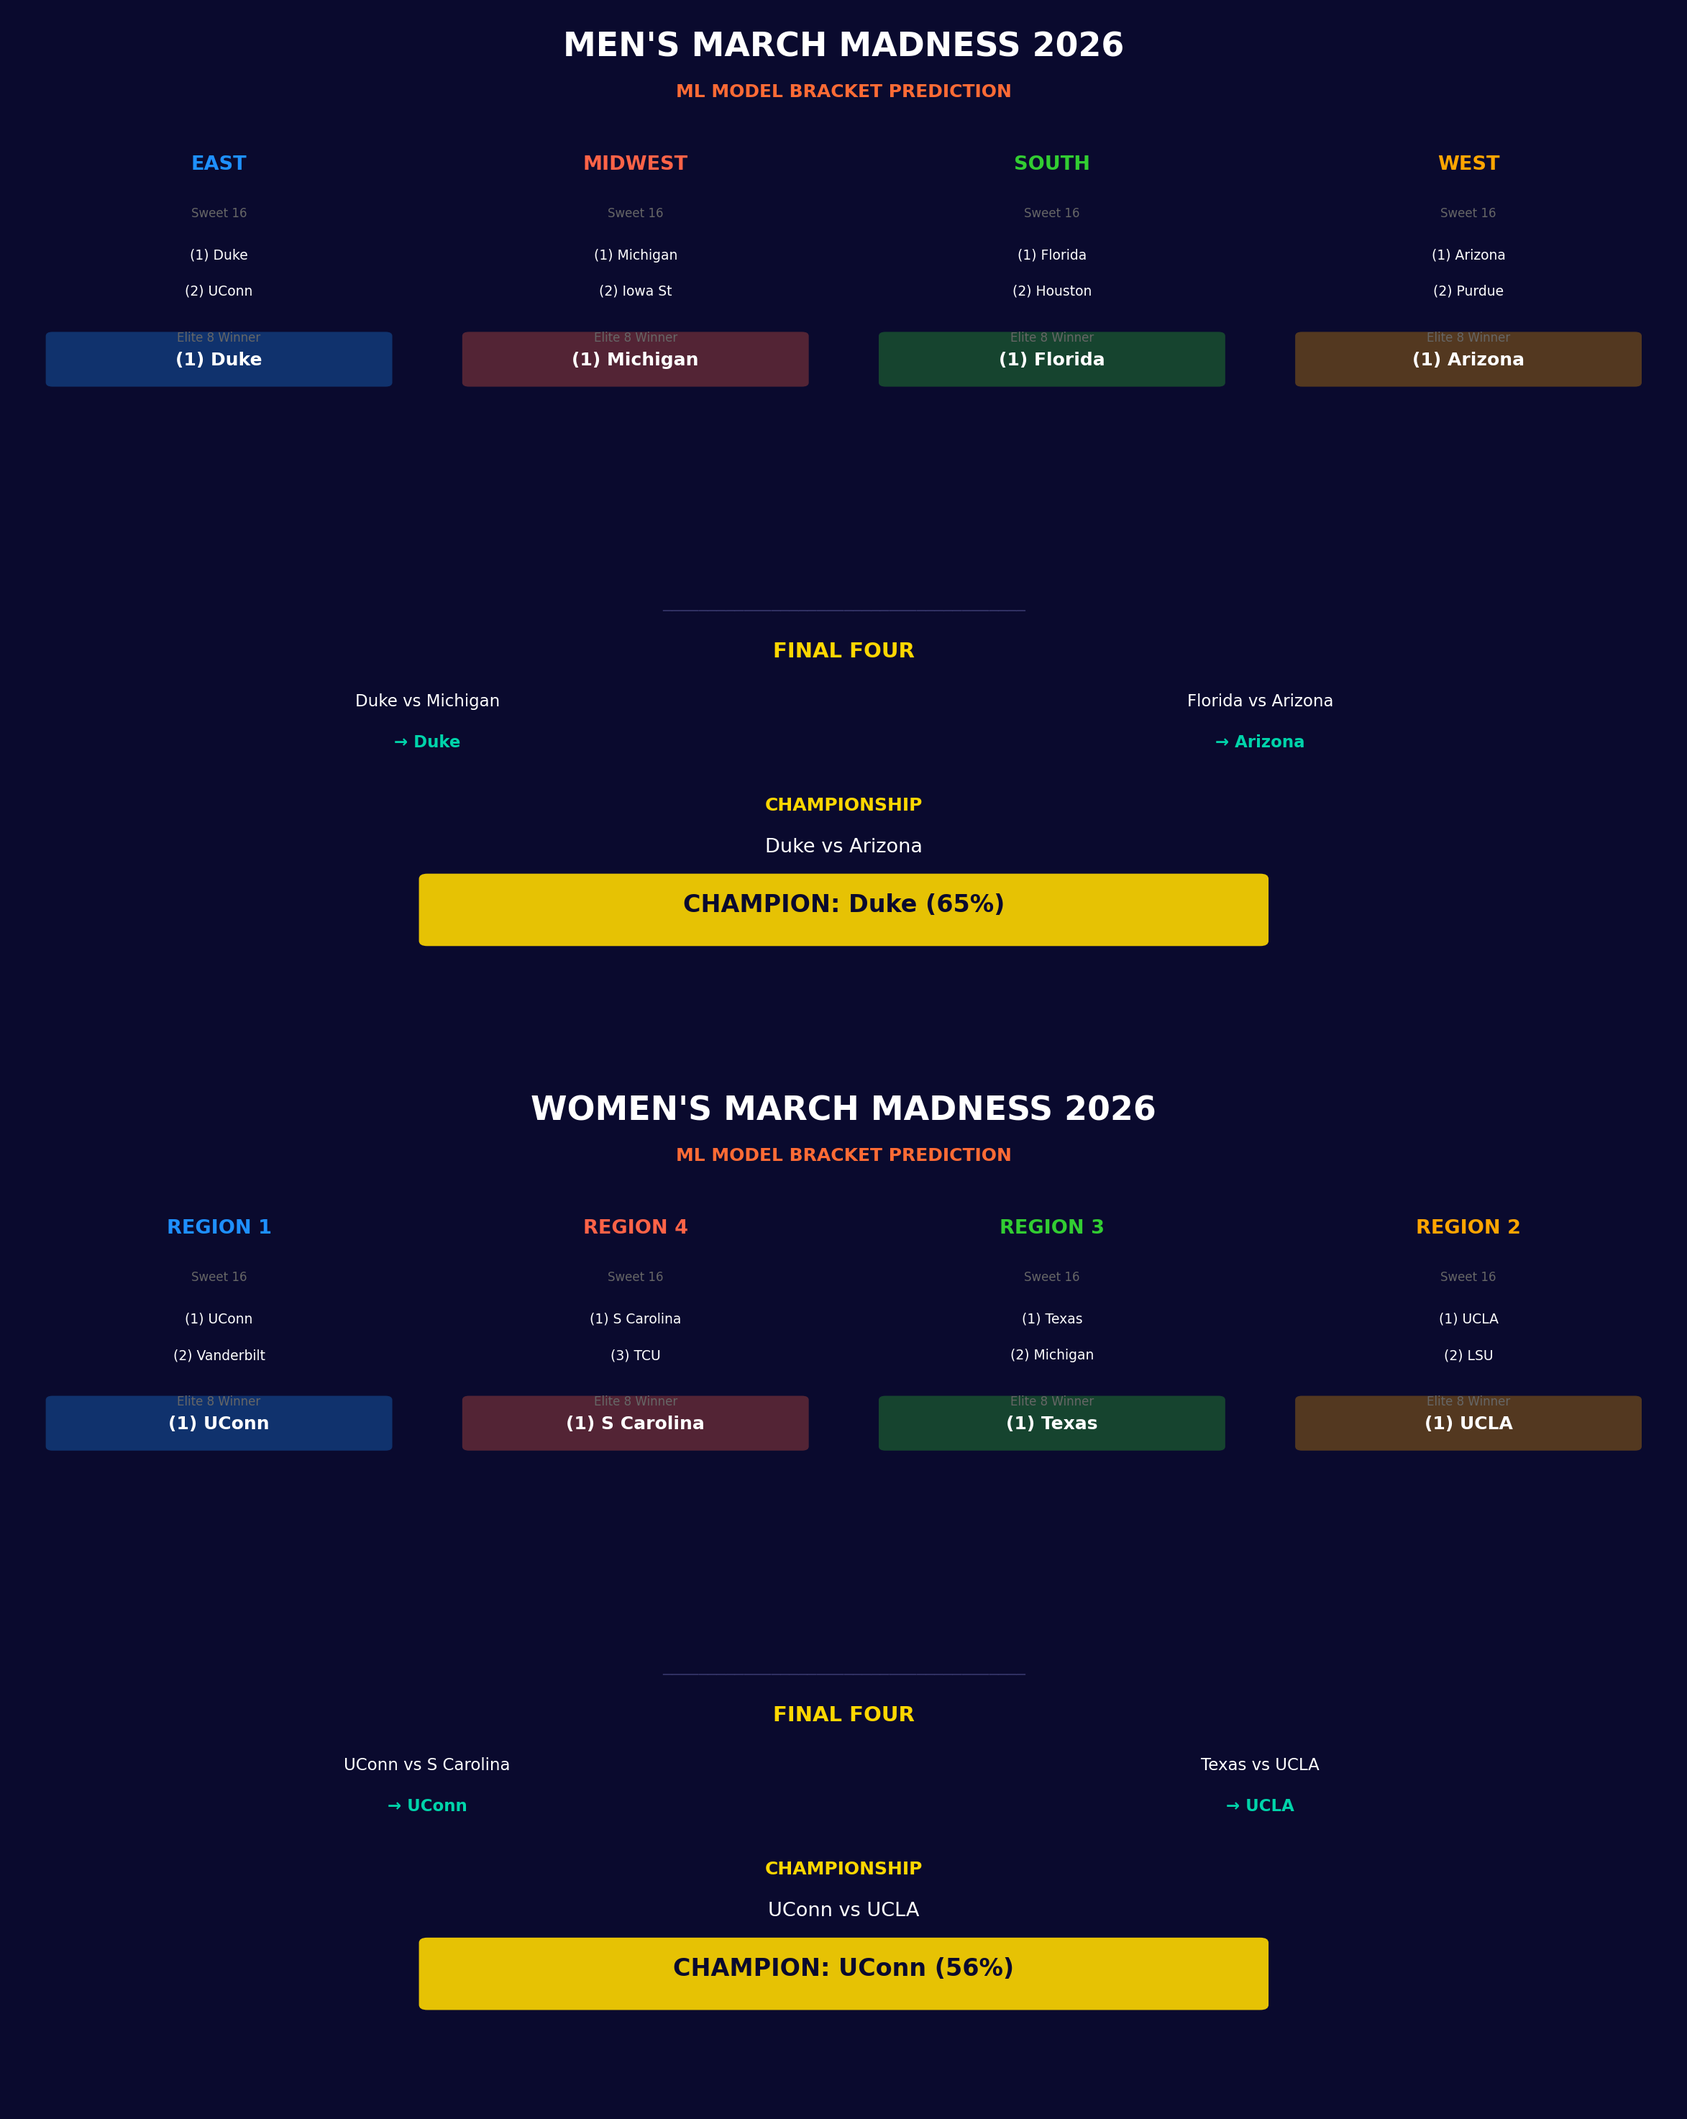
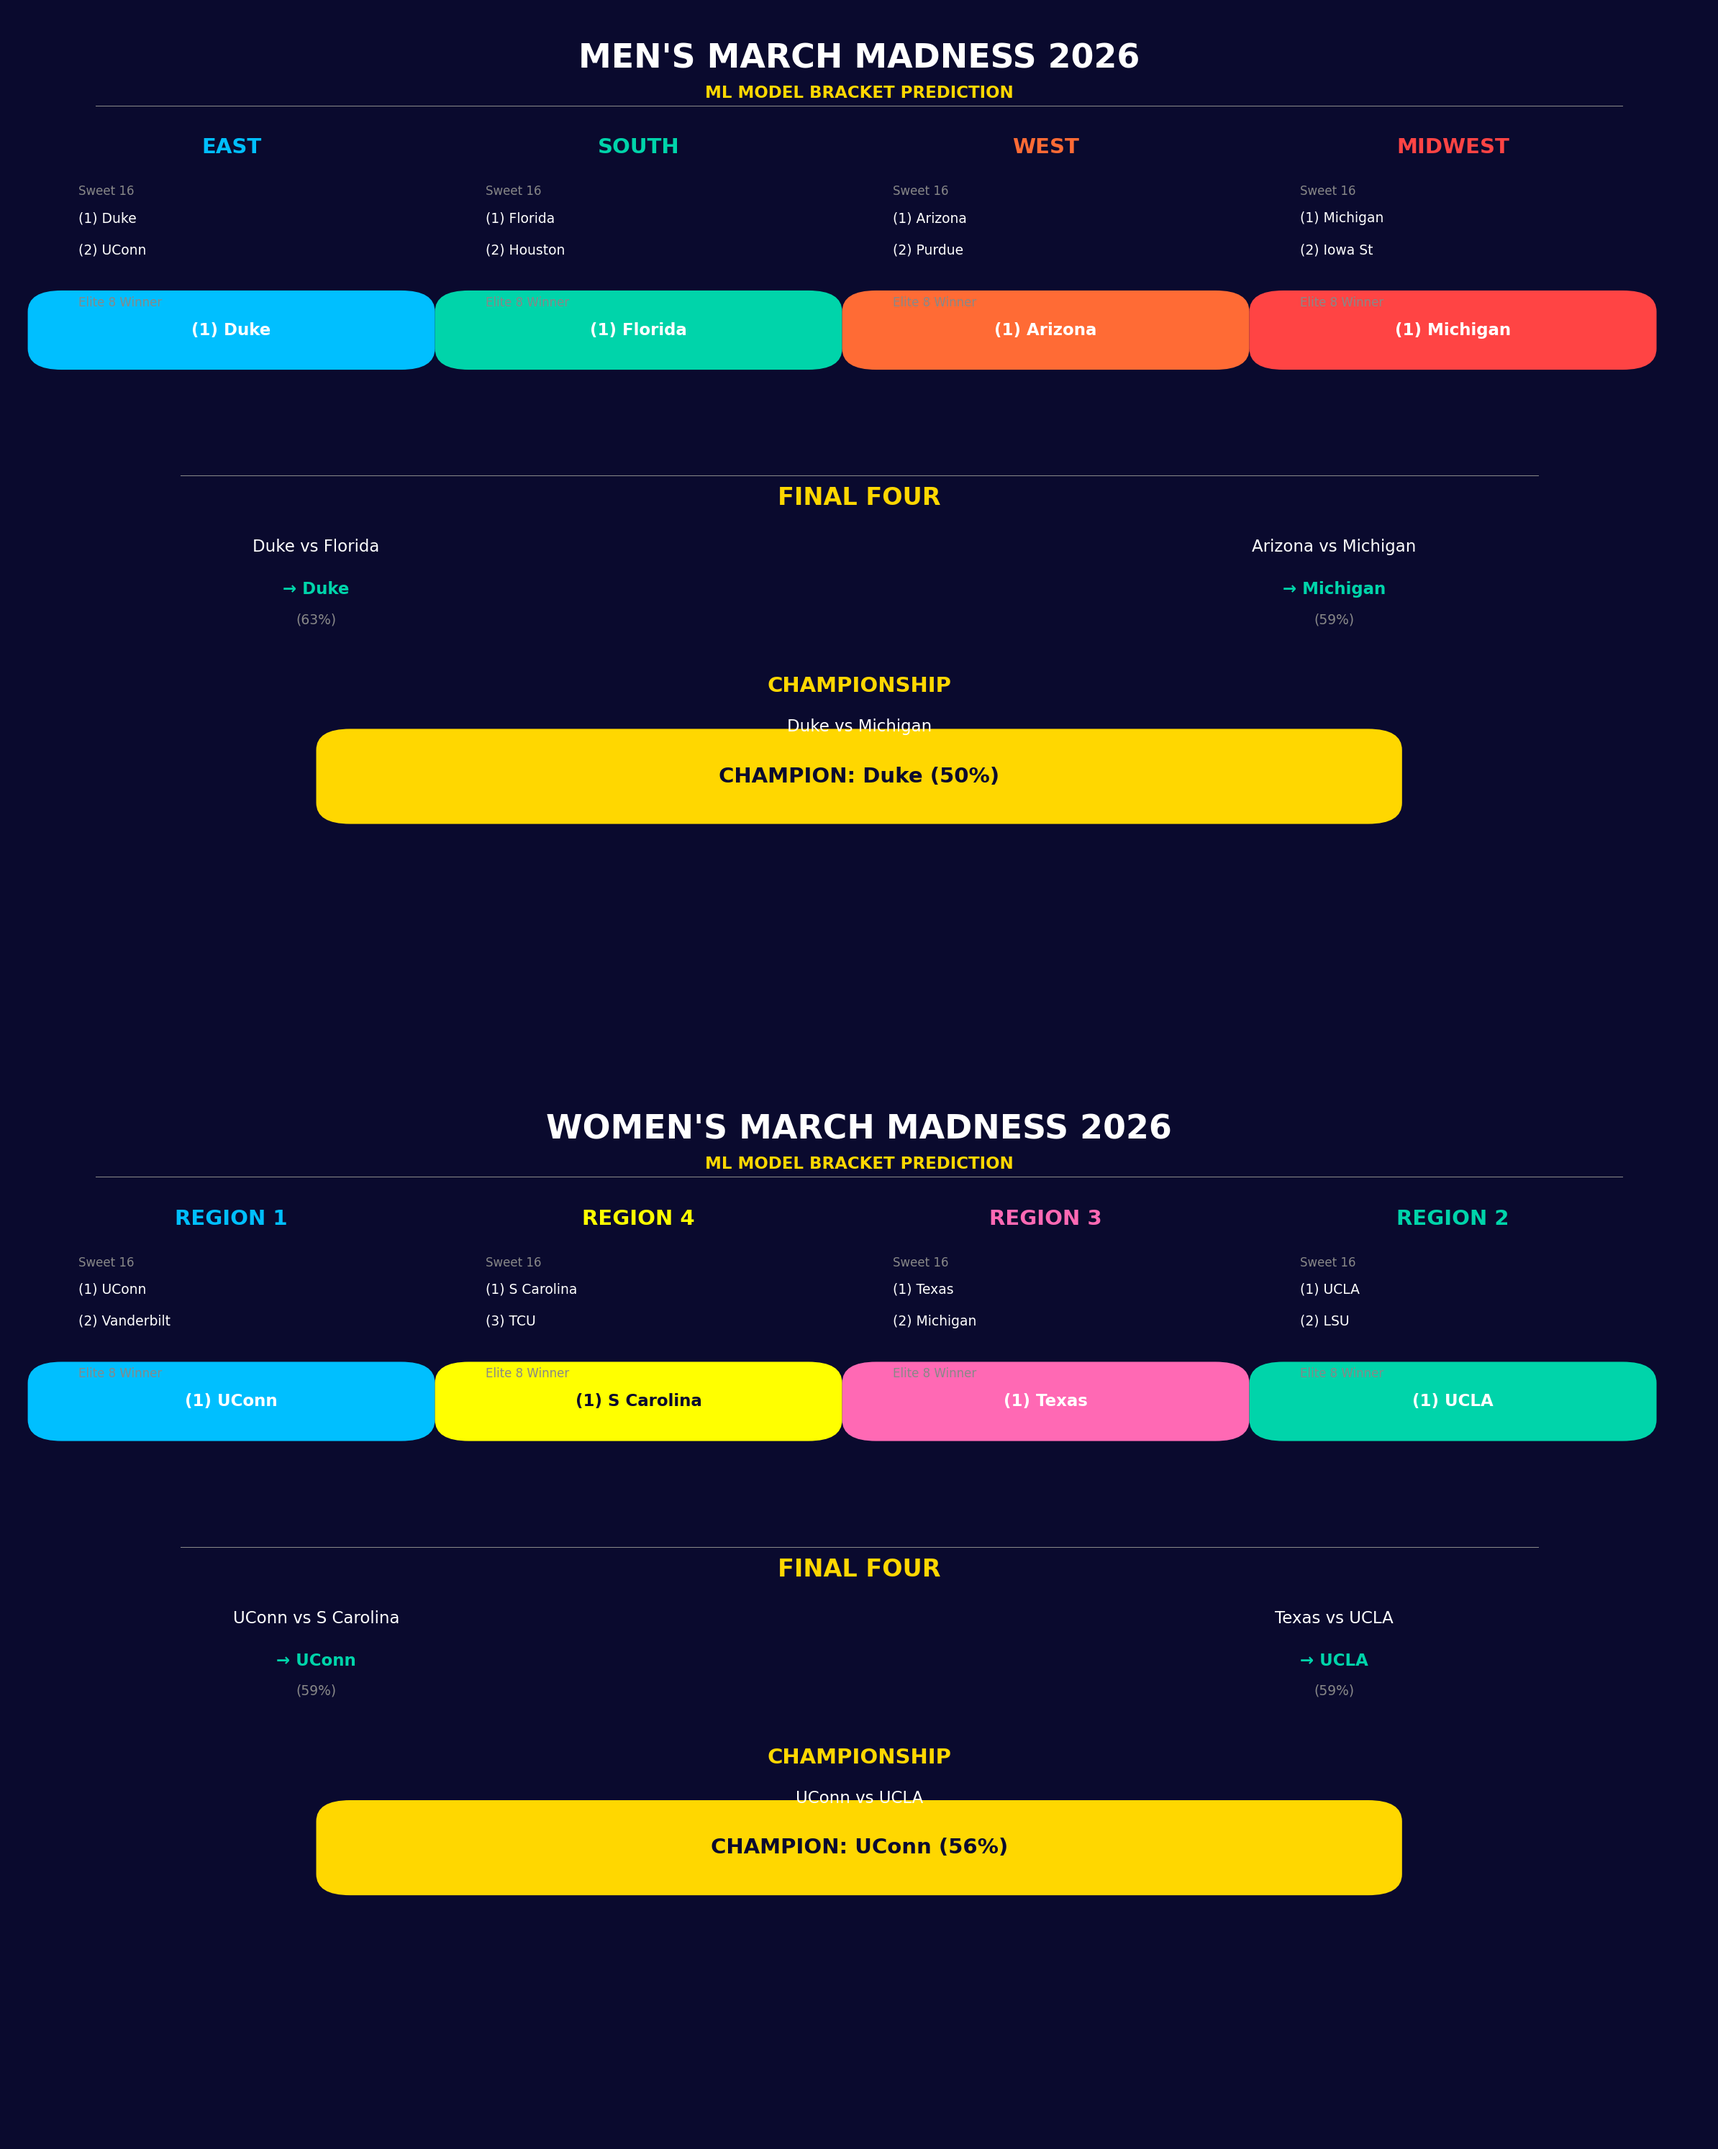
Fix Final Four pairings: East vs South, West vs Midwest
Corrected bracket structure:
- Semi 1: Duke (East) over Florida (South) 63%
- Semi 2: Michigan (Midwest) over Arizona (West) 59%
- Championship: Duke vs Michigan (50% coin flip) → Duke

Updated README, bracket image, LinkedIn post, and Twitter post.

diff --git a/twitter_post.md b/twitter_post.md
@@ -1,0 +1,91 @@
+# Twitter/X Post — March Madness 2026
+
+---
+
+## Main Tweet
+
+We built an ML model that predicts every possible matchup in the 2026 NCAA Tournament.
+
+132,133 predictions. Here's what it sees:
+
+Men's champion: Duke (18.7%)
+Runner-up: Michigan (17.8%)
+Championship game: Duke vs Michigan — 50.3% to 49.7%. A coin flip.
+
+Women's champion: UConn (27.9%)
+They went 34-0 and STILL only get a 28% chance. March is brutal.
+
+Thread below.
+
+---
+
+## Reply 1 — Final Four
+
+The model's Final Four path:
+
+Semi 1 (East vs South): Duke over Florida — 63%
+Semi 2 (West vs Midwest): Michigan over Arizona — 59%
+Championship: Duke vs Michigan — dead even
+
+Top 5 men's title odds:
+Duke — 18.7%
+Michigan — 17.8%
+Arizona — 10.8%
+Houston — 8.2%
+Florida — 7.1%
+
+---
+
+## Reply 2 — How It Works
+
+How: 3 gradient boosting models (LightGBM, XGBoost, CatBoost) trained on 20 years of NCAA data.
+
+139 features per matchup:
+- Elo power ratings
+- Four Factors (shooting, turnovers, rebounding, FT rate)
+- Strength of schedule
+- 197 ranking systems aggregated
+- Coaching tournament experience
+
+They vote. We average.
+
+---
+
+## Reply 3 — Key Insight
+
+The #1 predictor isn't seed. It's not ranking.
+
+It's peak power rating — the best a team played all season.
+
+Free throw rate (#7) ranks higher than 3PT% and rebounds as a predictor.
+
+Getting to the line wins games in March.
+
+---
+
+## Reply 4 — Upset Watch
+
+Upsets to watch Thursday:
+
+Iowa over (8) Clemson — 57%
+Utah St over (8) Villanova — 53%
+
+No major Cinderella (12+ seed) predicted, but High Point has a 32.3% shot against Wisconsin.
+
+---
+
+## Reply 5 — Validation
+
+Model accuracy on past tournaments:
+2022: 0.189 Brier (St. Peter's run was tough)
+2023: 0.194 (UConn dominance predicted)
+2024: 0.161 (fewer upsets)
+2025: 0.126 (best yet)
+
+Avg: 0.168 (random = 0.25)
+
+Full bracket + code: [link]
+
+---
+
+*Posting tips: Post ~2hrs before Thursday tip-off. Quote-tweet after predicted upsets hit to validate the model. Pin the main tweet during the tournament.*

diff --git a/linkedin_post.md b/linkedin_post.md
@@ -1,0 +1,42 @@
+# LinkedIn Post — March Madness 2026
+
+---
+
+**Duke vs Michigan is a coin flip.**
+
+That's what our ML model says about a potential championship game — 50.3% to 49.7%. Dead even.
+
+My team built a machine learning pipeline that predicts every possible matchup in the 2026 NCAA Tournament — 132,133 predictions total. Here's what the model sees:
+
+**Men's Title Odds:**
+- Duke — 18.7%
+- Michigan — 17.8%
+- Arizona — 10.8%
+- Houston — 8.2%
+- Florida — 7.1%
+
+**The Final Four Path:**
+- Semi 1 (East vs South): Duke over Florida — 63% confidence
+- Semi 2 (West vs Midwest): Michigan over Arizona — 59% confidence
+- Championship: Duke vs Michigan — a true coin flip
+
+**Women's Pick:** UConn at 27.9% — and they went 34-0 this season. The model still only gives them a ~28% shot. That's how hard it is to win six straight in March.
+
+**How it works:**
+We trained an ensemble of three gradient boosting models (LightGBM, XGBoost, CatBoost) on 20 years of NCAA game data. Each team is measured across 139 features — Elo ratings, shooting efficiency, strength of schedule, momentum, coaching experience, and signals from 197 national ranking systems.
+
+The top predictor? Peak power rating — the best a team played all season matters more than where they finished.
+
+**Upsets to watch Thursday:**
+- Iowa over (8) Clemson — 57%
+- Utah St over (8) Villanova — 53%
+
+Model validated on 4 past tournaments with a Brier score of 0.168 (lower is better; random guessing scores 0.25).
+
+Full bracket, methodology, and code: [link to repo]
+
+#MarchMadness #MachineLearning #NCAA #DataScience #SportsAnalytics
+
+---
+
+*Posting tips: Share Sunday evening or Monday morning before tournament starts. Update with quote comments as predictions hit.*

diff --git a/README.md b/README.md
@@ -30,7 +30,7 @@ pie title Men's Title Probability
 
 | #   | Team         | Power Rating | Title Odds | Make Finals |
 | --- | ------------ | ------------ | ---------- | ----------- |
-| 1   | **Duke**     | 2078         | **18.7%**  | 22.1%       |
+| 1   | **Duke**     | 2078         | **18.7%**  | 23.0%       |
 | 2   | Michigan     | 2069         | 17.8%      | 21.3%       |
 | 3   | Arizona      | 2032         | 10.8%      | 14.2%       |
 | 4   | Houston      | 1967         | 8.2%       | 11.5%       |
